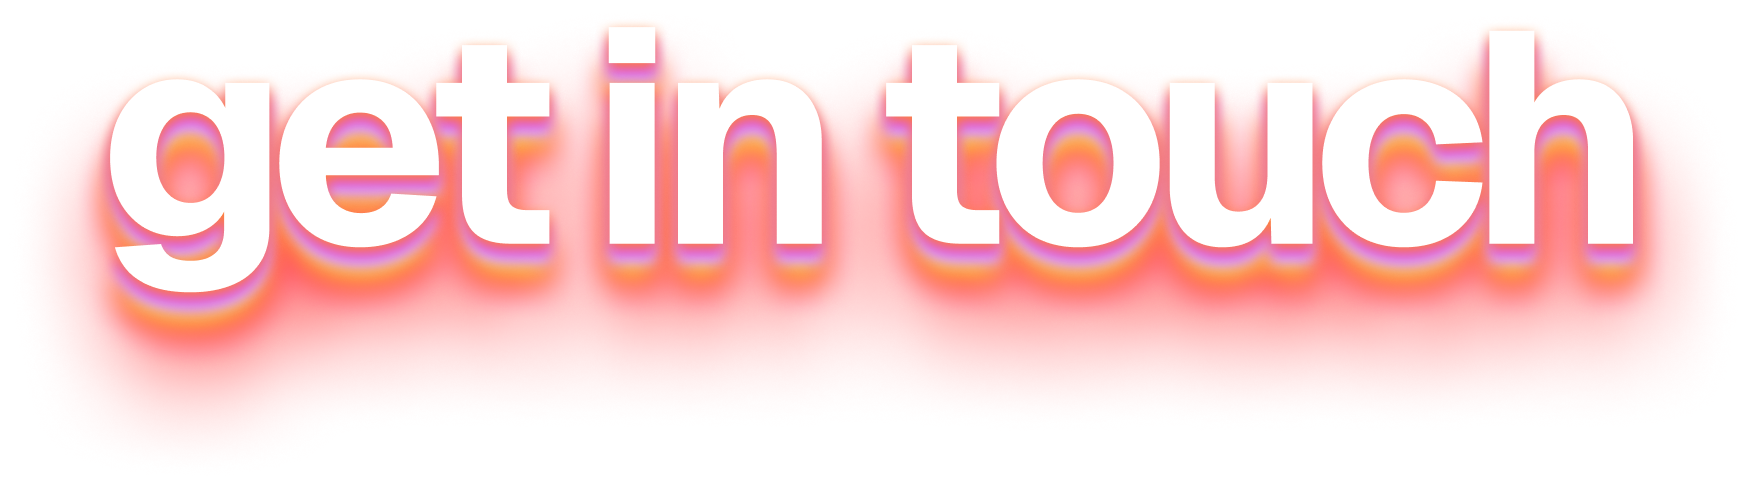
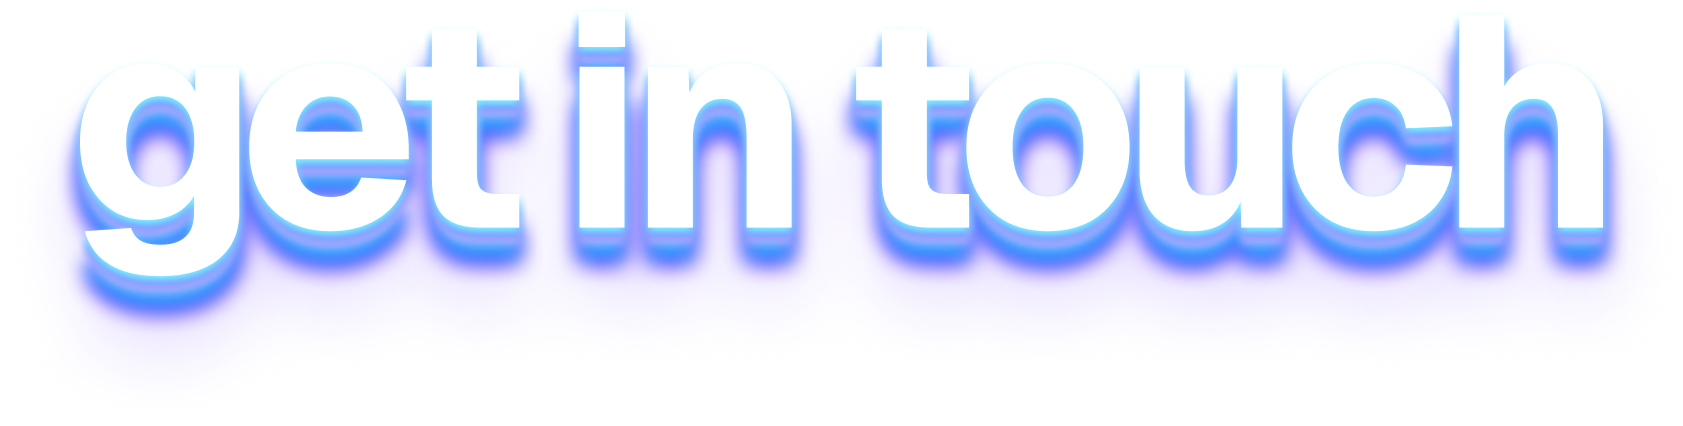
Re-fit the footer wordmark to the new exports, and split the hue arc by theme
The export geometry changed: 1683x426, down from 1744x486. The lettering is
still exactly 1523px wide, so the type size is unchanged — it is the glow
padding that shrank, 110px to 80px a side. The three numbers driving the gutter
alignment are re-derived from the new pixels (1683/1523, -80/1523) and the
comment now says to re-derive them on every export, since they shift silently
rather than failing visibly.

The bigger change is the hue arc. The two exports no longer share a base
palette — light is warm, dark is blue — so their yellow-green bands sit in
different places and the single warm arc ran the dark wordmark straight through
green. Measured: Gettouch_dark is dirty 190-320 and Oops_dark 170-310, so dark
mode gets its own 330->520 arc, which clears both. Light keeps 230->380, which
clears both light exports. Only the animation name is overridden; duration and
direction are shared.

Verified: ink on both gutters to 0px, button-glow-hue in light and
wordmark-hue-dark in dark, no horizontal scroll.

diff --git a/app/components/site-footer.tsx b/app/components/site-footer.tsx
@@ -45,13 +45,18 @@ export function SiteFooter() {
     <div className="relative w-full">
       <footer className="grid w-full grid-cols-4 gap-x-lg pt-4xl pb-4xs md:gap-y-xl md:pb-2xl dt:grid-cols-6 dt:gap-y-0 dt:pt-0 dt:pb-4xl">
         {/* Wordmark — the lettering meets the page gutters, not the image box.
-            The export is 1744px wide but its glow occupies 110px of that on the
-            left and 111px on the right, leaving the letterforms themselves
-            spanning 1523px (measured off the exported pixels; both the light and
-            dark files carry identical bounds). Sizing the image to the cell would
-            therefore inset the "g" and the "h" by the width of their own glow, so
-            it is blown up by 1744/1523 and pulled left by the 110px margin, both
-            as ratios of the cell so they hold at every breakpoint.
+            The export is 1683px wide but its glow occupies 80px of that on each
+            side, leaving the letterforms themselves spanning 1523px (measured
+            off the exported pixels; both the light and dark files carry
+            identical bounds). Sizing the image to the cell would therefore inset
+            the "g" and the "h" by the width of their own glow, so it is blown up
+            by 1683/1523 and pulled left by the 80px margin, both as ratios of
+            the cell so they hold at every breakpoint.
+
+            Re-derive all three numbers whenever the asset is re-exported — the
+            glow padding has changed between exports while the 1523px lettering
+            stayed put, and stale numbers here shift the wordmark off the gutter
+            rather than failing visibly.
 
             The glow now spills past the page gutters. That is the point — it is
             also why <footer> can no longer clip its overflow. Nothing scrolls:
@@ -70,10 +75,10 @@ export function SiteFooter() {
             // Tailwind utilities they lost to next/image's own sizing and the
             // element computed to 0×0, which silently collapsed the wordmark.
             style={{
-              width: "calc(100% * 1744 / 1523)",
+              width: "calc(100% * 1683 / 1523)",
               maxWidth: "none",
               height: "auto",
-              marginLeft: "calc(-100% * 110 / 1523)",
+              marginLeft: "calc(-100% * 80 / 1523)",
             }}
             className={wordmarkNear ? "wordmark-hue" : undefined}
           />

diff --git a/app/globals.css b/app/globals.css
@@ -1868,6 +1868,26 @@ textarea,
   animation: button-glow-hue 4s linear infinite alternate;
 }
 
+/* The two wordmark exports do not share a base palette: light is warm, dark is
+   blue. Their yellow-green bands therefore sit in different places, and one arc
+   cannot clear both — the warm arc above runs straight through the dark
+   assets' green. Measured on the exports: Gettouch_dark is dirty 190-320 and
+   Oops_dark 170-310, so 330->520 (round through 0 to 160) is the arc that
+   clears both. Only the name is overridden; duration and direction stay.
+
+   Re-derive this whenever an asset is re-exported. If the dark exports are ever
+   re-made warm to match light, this whole block becomes unnecessary. */
+@keyframes wordmark-hue-dark {
+  from { filter: hue-rotate(330deg); }
+  to   { filter: hue-rotate(520deg); }
+}
+
+@media (prefers-color-scheme: dark) {
+  :root:not([data-theme="light"]) .wordmark-hue { animation-name: wordmark-hue-dark; }
+}
+
+:root[data-theme="dark"] .wordmark-hue { animation-name: wordmark-hue-dark; }
+
 @media (prefers-reduced-motion: reduce) {
   .wordmark-hue { animation: none; }
 }
